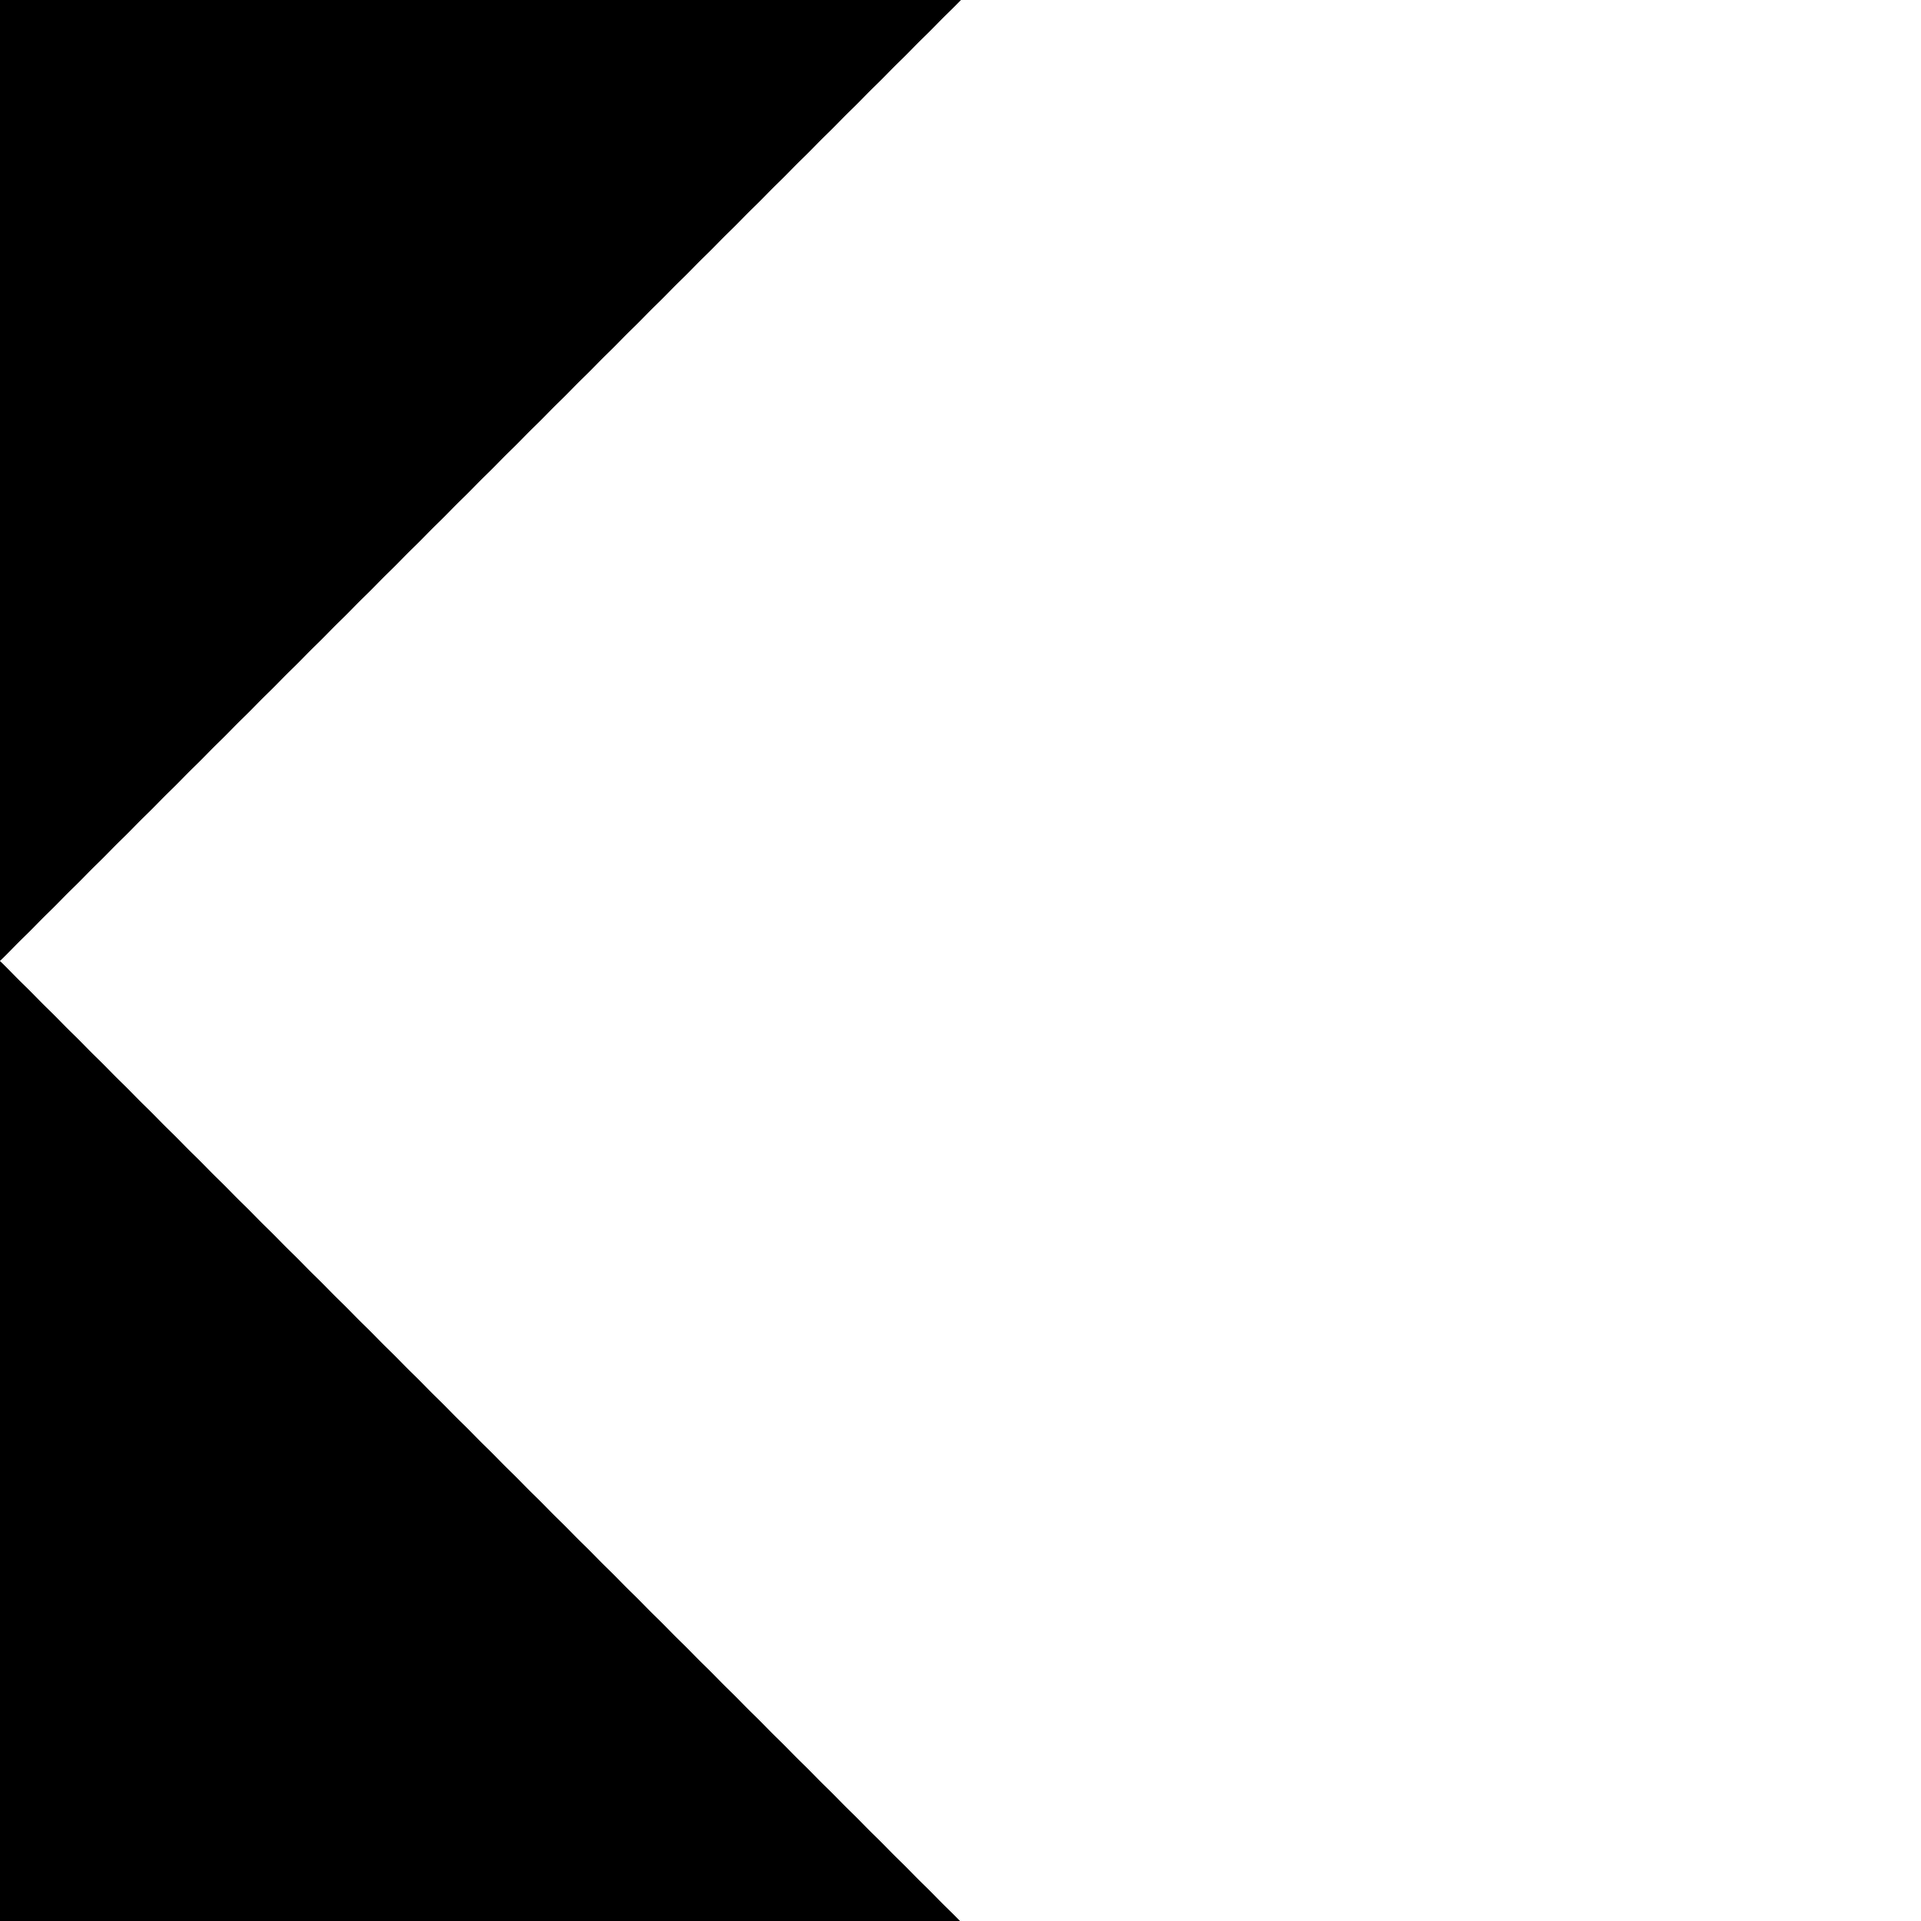
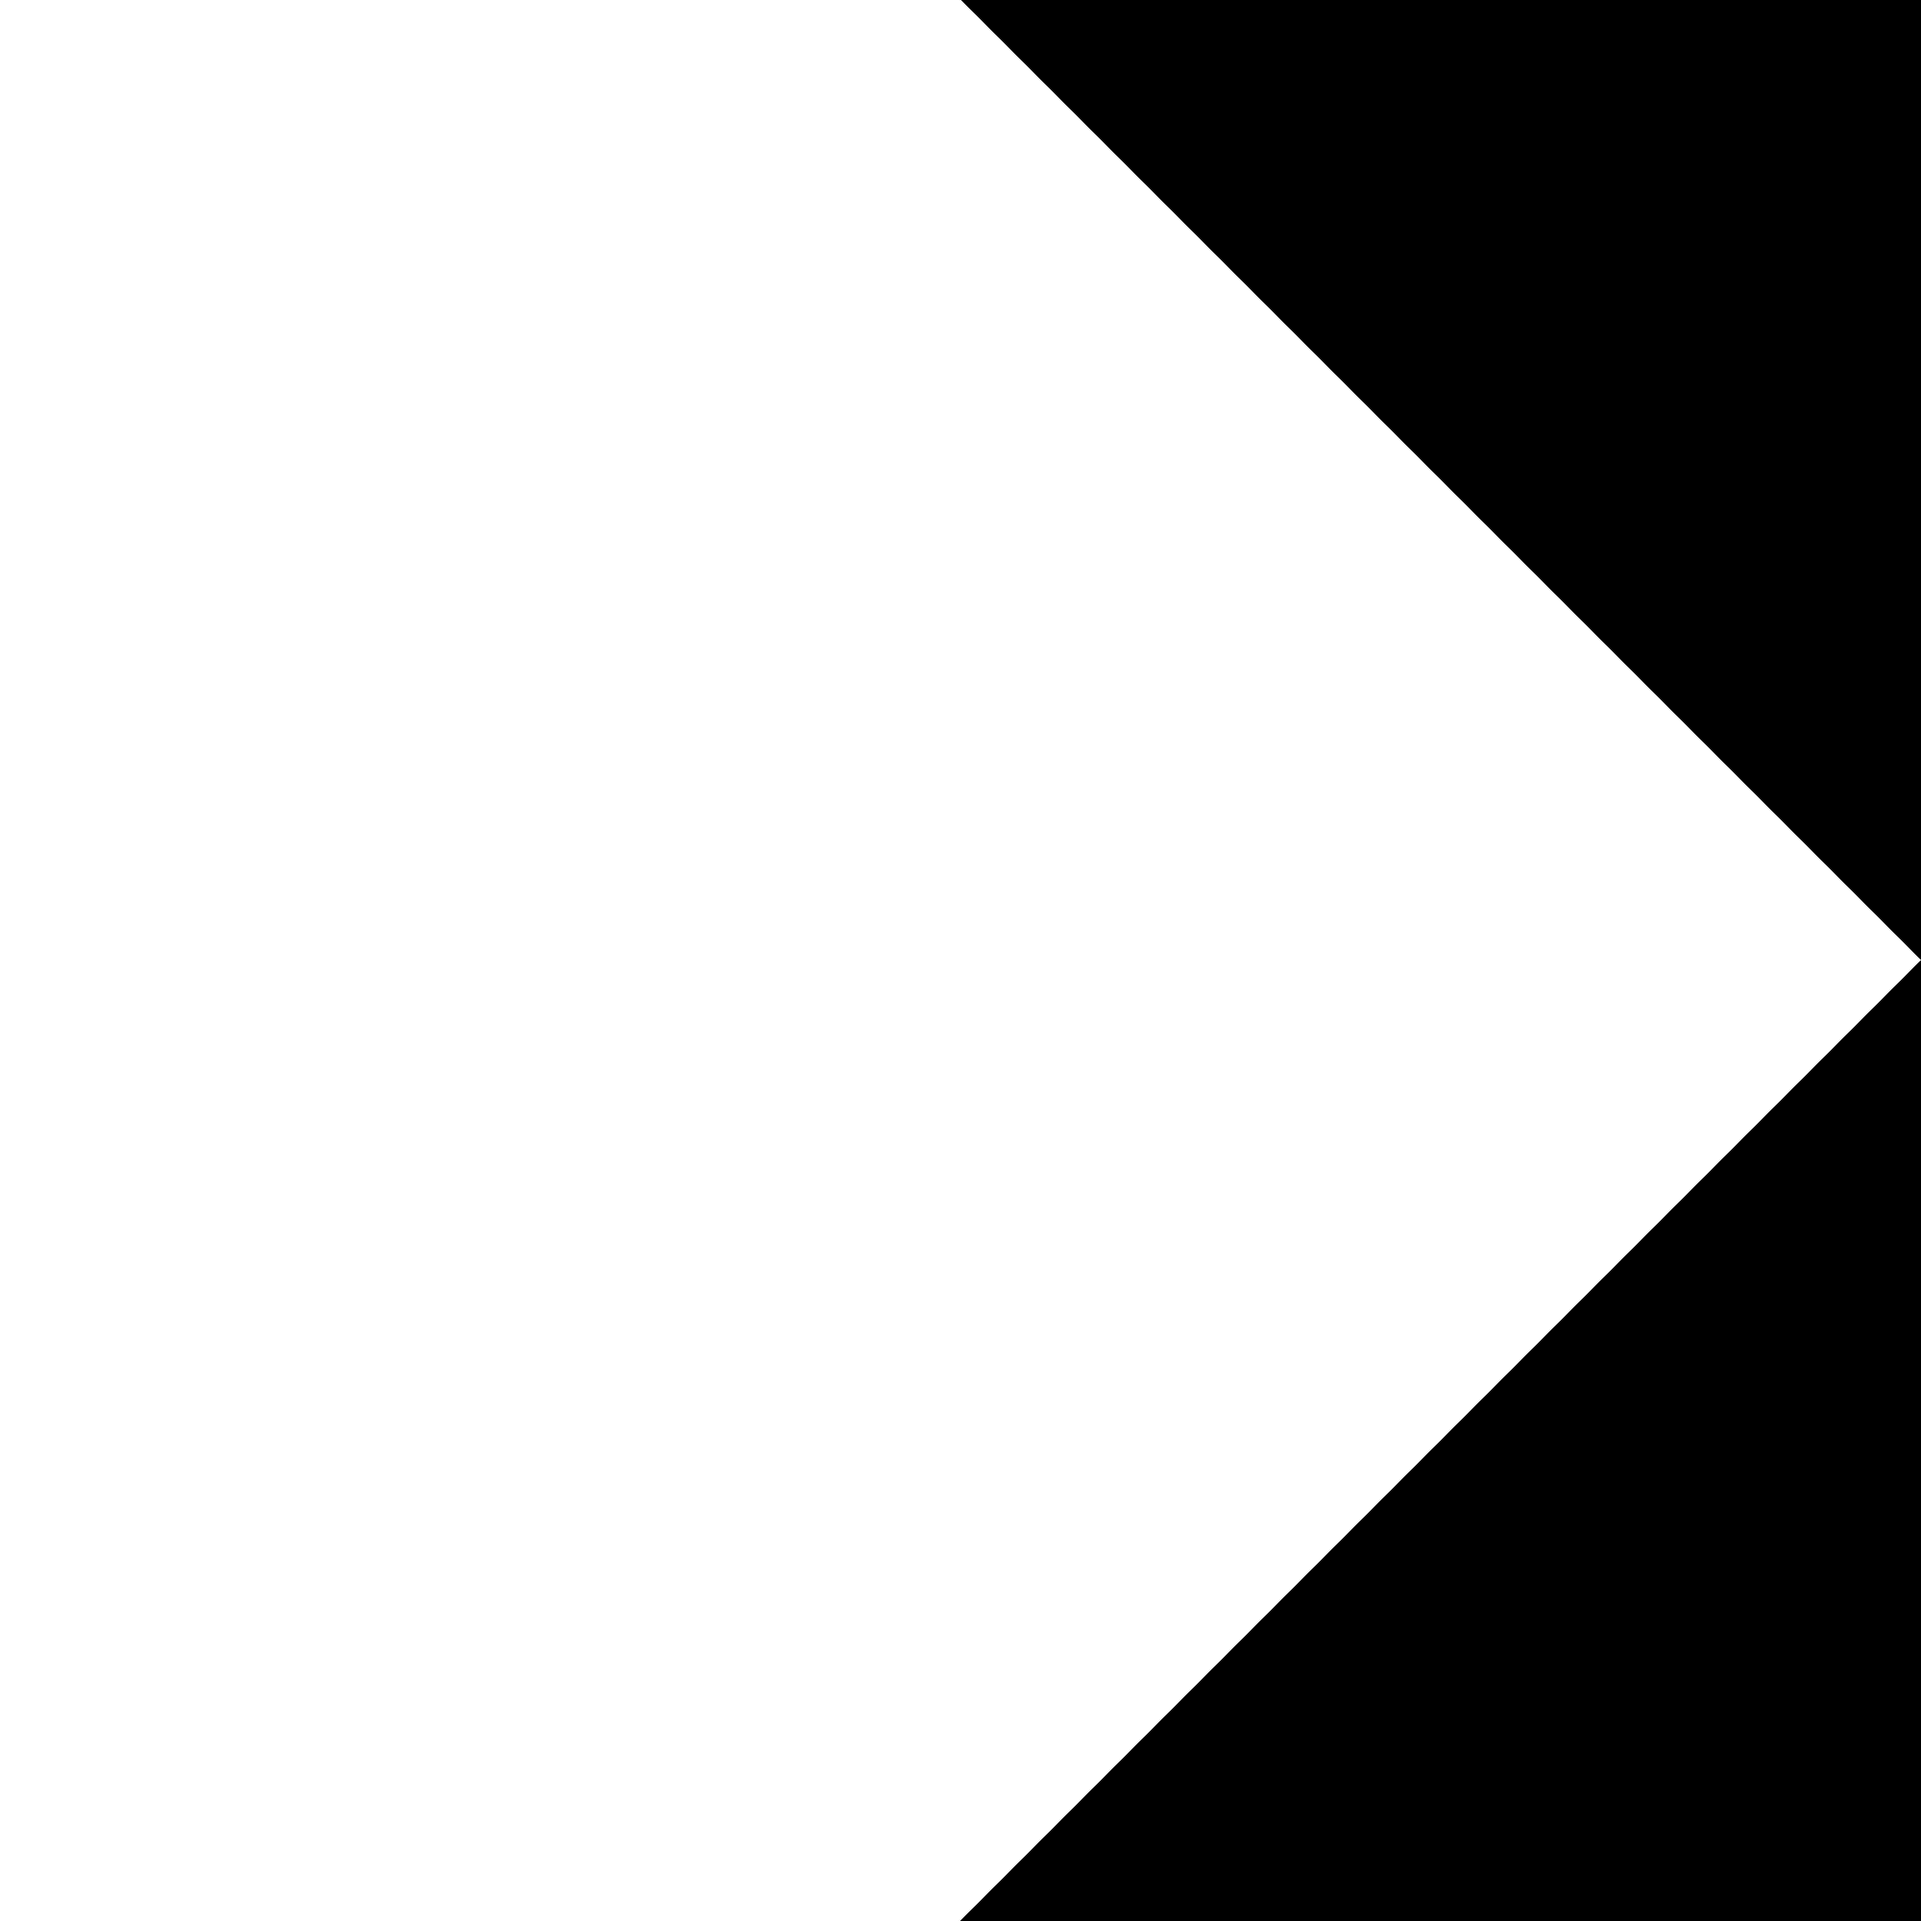
Improve version using a loop instead of repeated code

diff --git a/main.py b/main.py
@@ -1,24 +1,27 @@
 from PIL import Image, ImageDraw, ImageOps
 
 
-def generate_box(p_color, p_namefile):
+def generate_box():
     # Set the image size
     image_size = (2000, 2000)
 
     # Create a black square image
-    image = Image.new("RGB", image_size, p_color)
+    image01 = Image.new("RGB", image_size, "white")
 
     # Save the image as "figure01.png"
-    image.save(p_namefile)
+    image01.save("figure01.png")
 
+    # Invert the colors (swap black and white)
+    inverted_image14 = ImageOps.invert(image01)
+    inverted_image14.save("figure14.png")
 
 def generate_figures():
-    # Set the image02 size
+    # Set the image size
     image_size = (2000, 2000)
 
-    # Create a white square image02
-    image02 = Image.new("RGB", image_size, "white")
-    draw = ImageDraw.Draw(image02)
+    # Create a white square image
+    image = Image.new("RGB", image_size, "white")
+    draw = ImageDraw.Draw(image)
 
     # Define the coordinates for the lines
     right_middle = (image_size[0], image_size[1] // 2)
@@ -45,46 +48,36 @@ def generate_figures():
     # Draw triangles in the corners
     draw.polygon(triangle_coords_bottom, fill="black")
 
-    # Save the image02
-    image02.save("figure02.png")
+    # Save the image
+    image.save("figure02.png")
 
     # Invert the colors (swap black and white)
-    inverted_image12 = ImageOps.invert(image02)
-    inverted_image12.save("figure12.png")
+    inverted_image = ImageOps.invert(image)
+    inverted_image.save("figure12.png")
 
-    # Rotate the image02 90 degrees to the left
-    rotated_image05 = image02.rotate(90, expand=True)
-    rotated_image05.save("figure05.png")
-
-    inverted_image11 = ImageOps.invert(rotated_image05)
-    inverted_image11.save("figure11.png")
-
-    rotated_image04 = rotated_image05.rotate(90, expand=True)
-    rotated_image04.save("figure04.png")
-
-    inverted_image10 = ImageOps.invert(rotated_image04)
-    inverted_image10.save("figure10.png")
-
-    rotated_image03 = rotated_image04.rotate(90, expand=True)
-    rotated_image03.save("figure03.png")
-
-    inverted_image13 = ImageOps.invert(rotated_image03)
-    inverted_image13.save("figure13.png")
+    # Rotate and save the images
+    for i in range(3):
+        rotated_image = image.rotate(90 * (i+1), expand=True)
+        rotated_image.save(f"figure0{i+3}.png")
+        inverted_image = ImageOps.invert(rotated_image)
+        inverted_image.save(f"figure1{i+1}.png")
 
     # Another draws
-    # Create a white square image06
+    # Create a white square image
     image06 = Image.new("RGB", image_size, "white")
     draw = ImageDraw.Draw(image06)
 
     # Draw rectangles in the corners
     draw.polygon(rectangle_coords_bottom, fill="black")
 
-    # Save the image06
+    # Save the image
     image06.save("figure06.png")
 
+    # Invert the colors (swap black and white)
     inverted_image08 = ImageOps.invert(image06)
     inverted_image08.save("figure08.png")
 
+    # Rotate and save the image
     rotated_image09 = image06.rotate(90, expand=True)
     rotated_image09.save("figure09.png")
 
@@ -94,7 +87,5 @@ def generate_figures():
 
 # Press the green button in the gutter to run the script.
 if __name__ == '__main__':
-    generate_box("black", "figure14.png")
-    generate_box("white", "figure01.png")
-
+    generate_box()
     generate_figures()
